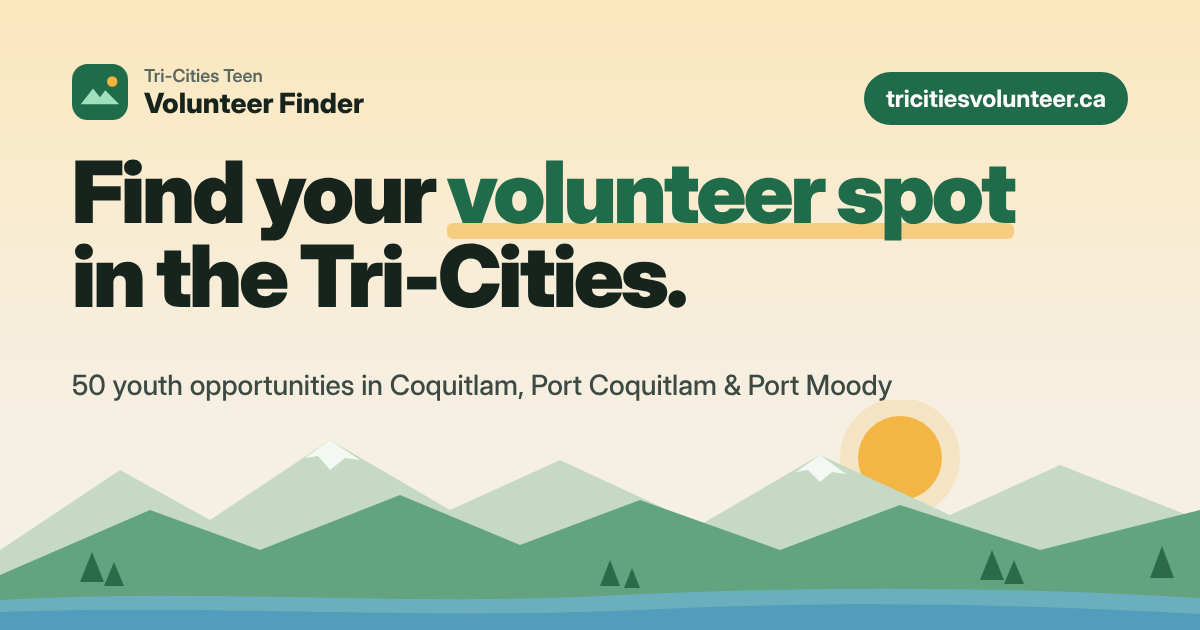
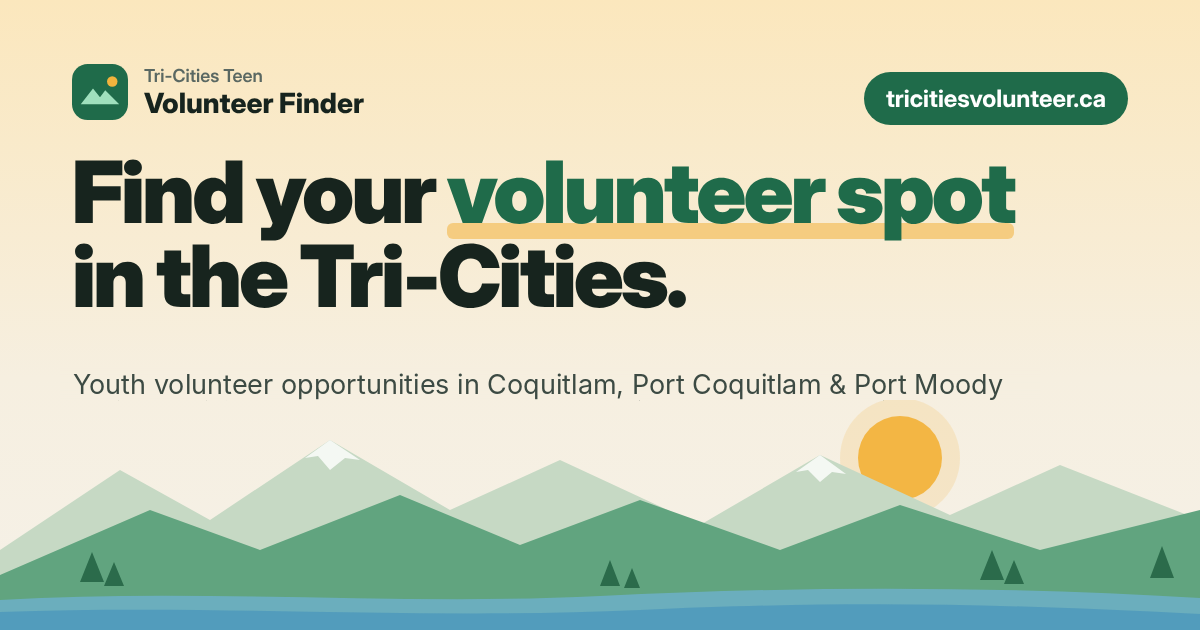
Add 7 opportunities: Hoy Creek Hatchery, Minnekhada citizen science, Snow Angels, Caribbean Days, BC Dumpling Festival, Golden Spike Days, Fraser River Discovery Centre

Changed region(s): [[0.0617, 0.573, 0.8325, 0.6333]]

diff --git a/index.html b/index.html
@@ -1052,7 +1052,56 @@ const LISTINGS = [
     category: "Community & food", minAge: null, who: "Varies by listing",
     desc: "The Tri-Cities' volunteer centre. Nonprofits post openings to its directory, and it also has a youth volunteer directory PDF.",
     how: "Use their 'Search for Volunteer Positions' page.",
-    status: "open", url: "https://volunteerconnections.ca/find-volunteer-opportunities/", checked: "2026-11-07" }
+    status: "open", url: "https://volunteerconnections.ca/find-volunteer-opportunities/", checked: "2026-11-07" },
+  { title: "Salmon hatchery volunteer", org: "Hoy/Scott Watershed Society", city: "Coquitlam",
+    paths: ["env", "vet"],
+    category: "Environment", also: ["Animals"], minAge: null, who: "Students welcome (age not listed)",
+    desc: "Help run the Hoy Creek Hatchery: catch salmon for broodstock, feed fish, repair nets, clean the rearing pond and help with trail clean-ups. They give school volunteer hours and reference letters.",
+    when: "Saturday work sessions, 8:30–10:30 am. Open house the first Saturday of each month (not July–September).",
+    how: "Fill in the registration form on their Get Involved page and pay the $5 student membership, which covers insurance. Questions: hoyscottwatershed@gmail.com.",
+    status: "open", url: "https://www.hoyscottcreeks.org/get-involved", checked: "2026-11-07" },
+  { title: "Citizen science: toad & bat counts", org: "Minnekhada Park Association", city: "Coquitlam",
+    paths: ["env", "vet"],
+    category: "Environment", also: ["Animals", "Science & tech"], minAge: null, who: "Age not listed",
+    desc: "Count western toads and their egg masses, help with evening bat counts at Minnekhada Marsh, and talk to visitors at the nature table in Minnekhada Regional Park.",
+    when: "Toad counts run late spring to summer. Bat counts are on summer evenings.",
+    how: "Fill in the form on their volunteer page or email coordinator@minnekhada.ca.",
+    status: "seasonal", url: "https://minnekhada.ca/?p=3509", checked: "2026-11-07" },
+  { title: "Snow Angel", org: "City of Coquitlam", city: "Coquitlam",
+    paths: ["health"],
+    category: "Community & food", minAge: null, who: "16+ on your own, younger with an adult. Coquitlam residents.",
+    desc: "Get matched with one or two neighbours (seniors or people with mobility challenges) and clear their city sidewalk after it snows. The city gives you a shovel, toque, scarf, ice cleats and mitts. SD43 students can count the hours.",
+    when: "Runs all of the 2026–27 winter, whenever it snows.",
+    how: "Start the volunteer process on the Snow Angels page.",
+    status: "open", url: "https://www.coquitlam.ca/363/Snow-Angels", checked: "2026-11-07" },
+  { title: "Festival volunteer", org: "Caribbean Days Festival", city: "Coquitlam",
+    paths: ["biz", "arts"],
+    category: "Arts & culture", also: ["Recreation & events"], minAge: null, who: "Age not listed",
+    desc: "Help at one of BC's biggest cultural festivals in Town Centre Park. Shifts are 4 or 8 hours. You get a festival T-shirt and a snack or meal, and high school students can get a letter for grad credit.",
+    when: "Last weekend of July. Sign-up opens in early summer.",
+    how: "Sign up on the festival website.",
+    status: "seasonal", url: "https://caribbeandays.ca/", checked: "2026-11-07" },
+  { title: "Festival volunteer", org: "BC Dumpling Festival", city: "Coquitlam",
+    paths: ["biz", "arts"],
+    category: "Arts & culture", also: ["Recreation & events"], minAge: null, who: "Age not listed",
+    desc: "Help run a free multicultural food festival at Town Centre Park run by the Asian Arts & Culture Society. It draws over 40,000 people.",
+    when: "Mid-August. The volunteer form filled up early in 2025, so apply as soon as it opens.",
+    how: "Watch their website for the volunteer sign-up form.",
+    status: "seasonal", url: "https://bcdumplingfest.com/", checked: "2026-11-07" },
+  { title: "Festival volunteer", org: "Golden Spike Days", city: "Port Moody",
+    paths: ["biz", "sport"],
+    category: "Recreation & events", minAge: null, who: "Age not listed",
+    desc: "Help at Port Moody's long-running summer festival at Rocky Point Park: set-up and tear-down, bike valet, gate greeter, activity assistant or stage hand.",
+    when: "Around Canada Day. Sign-up opens in spring.",
+    how: "Sign up through the festival website.",
+    status: "seasonal", url: "https://goldenspike.ca/", checked: "2026-11-07" },
+  { title: "Volunteer Youth Program", org: "Fraser River Discovery Centre", city: "Nearby & online",
+    paths: ["env", "edu"],
+    category: "Science & tech", also: ["Environment"], minAge: null, who: "Youth (check age on their site)",
+    desc: "Be a summer camp assistant or public programs assistant at the river science centre in New Westminster, running hands-on activities about the Fraser River.",
+    when: "Youth positions are posted in spring for the summer.",
+    how: "Apply through their Become a Volunteer page. Includes an orientation and a criminal record check.",
+    status: "seasonal", url: "https://fraserriverdiscovery.org/becomeavolunteer/", checked: "2026-11-07" },
 ];
 
 // =====================================================================
